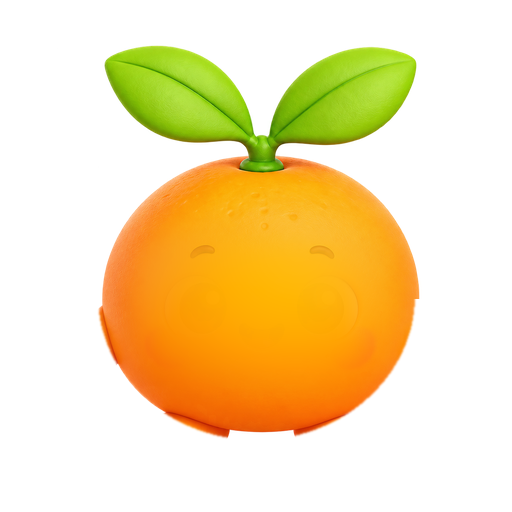
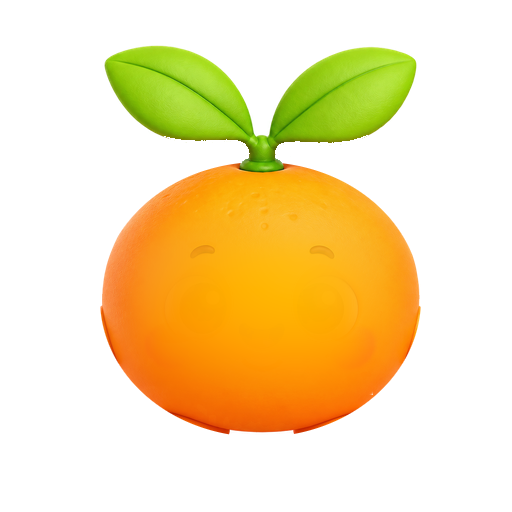
Repair stage arm roots and verify shoulder rotation envelopes

diff --git a/src/renderer/rig/rig-preview.tsx b/src/renderer/rig/rig-preview.tsx
@@ -3,16 +3,20 @@ import type { GrowthStage, PetDirection } from '../../shared/types';
 import { STAGES } from './geometry';
 import { gateFrame, visualSeed } from './frame';
 import { RigRenderer } from './rig-renderer';
+import { characterFrame } from './character';
+import { REST_POSE } from './geometry';
 
 export function RigPreview() {
-  const [time, setTime] = useState(650);
-  const [stage, setStage] = useState<GrowthStage>('lively');
-  const [direction, setDirection] = useState<PetDirection>('right');
+  const query = new URLSearchParams(location.search);
+  const initialStage = query.get('stage');
+  const [time, setTime] = useState(Number(query.get('time') ?? 650));
+  const [stage, setStage] = useState<GrowthStage>(STAGES.includes(initialStage as GrowthStage) ? initialStage as GrowthStage : 'lively');
+  const [direction, setDirection] = useState<PetDirection>(query.get('direction') === 'left' ? 'left' : 'right');
   return <main style={{ background: '#f4f0e9', height: '100vh', overflow: 'auto', padding: 24 }}>
     <h1>角色绘制验证 · Phase 1</h1><p>固定时间直接求帧；所有色块共用正式绘制组件，不连接存档。</p>
     <label>成长阶段 <select value={stage} onChange={(event) => setStage(event.target.value as GrowthStage)}>{STAGES.map((value) => <option key={value}>{value}</option>)}</select></label>
     <label> 朝向 <select value={direction} onChange={(event) => setDirection(event.target.value as PetDirection)}><option>right</option><option>left</option></select></label>
     <p><label>动作时间 {time} ms <input type="range" min="0" max="1800" value={time} onChange={(event) => setTime(Number(event.target.value))} /></label></p>
-    <div data-preview-viewport style={{ position: 'relative', width: 220, height: 220, background: '#fff', outline: '1px solid #bda98b' }}><RigRenderer stage={stage} drawables={gateFrame(time, direction, visualSeed('gate:1'))} /></div>
+    <div data-preview-viewport style={{ position: 'relative', width: 220, height: 220, background: '#fff', outline: '1px solid #bda98b' }}><RigRenderer stage={stage} drawables={query.get('fixture') === 'character' ? characterFrame(stage, direction, 'neutral', { body: REST_POSE, leftArm: Number(query.get('angle') ?? 0), rightArm: -Number(query.get('angle') ?? 0), leftLeg: 0, rightLeg: 0 }, '/assets/pet') : gateFrame(time, direction, visualSeed('gate:1'))} /></div>
   </main>;
 }

diff --git a/src/renderer/rig/character.ts b/src/renderer/rig/character.ts
@@ -1,0 +1,28 @@
+import type { GrowthStage, PetDirection, PetExpression } from '../../shared/types';
+import stageData from './stage-data.json';
+import { around, bodyMatrix, chain, rotate, transform, type Matrix, type Point, type Pose } from './geometry';
+import { renderAssignments, type Drawable } from './frame';
+
+export const SHOULDERS = stageData;
+export function armMatrix(stage: GrowthStage, side: 'left' | 'right', angle: number): Matrix {
+  const spec = SHOULDERS[stage][side];
+  if (angle < spec.minAngle || angle > spec.maxAngle) throw new Error(`Arm angle outside verified envelope: ${stage}/${side}/${angle}`);
+  return around(spec.shoulder, rotate(angle));
+}
+export function handPoint(stage: GrowthStage, side: 'left' | 'right', angle: number): Point {
+  return transform(armMatrix(stage, side, angle), SHOULDERS[stage][side].hand);
+}
+export interface CharacterPose { body: Pose; leftArm: number; rightArm: number; leftLeg: number; rightLeg: number }
+export function characterFrame(stage: GrowthStage, direction: PetDirection, expression: PetExpression, pose: CharacterPose, assetRoot: string, fallback = false): Drawable[] {
+  const body = bodyMatrix(pose.body, direction);
+  const layer = (id: string, slot: Drawable['slot'], matrix: Matrix, file: string): Drawable => ({ id, slot, matrix, src: `${assetRoot}/${stage}/${file}.png`, width: 512, height: 512 });
+  if (fallback) return [{ ...layer('fallback', 'body', body, ''), src: `${assetRoot}/${stage}.png` }];
+  return renderAssignments([
+    layer('leg-left', 'backArm', chain(body, around({ x: 220, y: 450 }, rotate(pose.leftLeg))), 'leg-left'),
+    layer('leg-right', 'backArm', chain(body, around({ x: 292, y: 450 }, rotate(pose.rightLeg))), 'leg-right'),
+    layer('arm-left', 'backArm', chain(body, armMatrix(stage, 'left', pose.leftArm)), 'arm-left'),
+    layer('arm-right', 'backArm', chain(body, armMatrix(stage, 'right', pose.rightArm)), 'arm-right'),
+    layer('body', 'body', body, 'body'),
+    layer('expression', 'faceExpression', body, `expressions/${expression}`),
+  ]);
+}

diff --git a/src/renderer/rig/character.test.ts b/src/renderer/rig/character.test.ts
@@ -1,0 +1,26 @@
+import { describe, expect, it } from 'vitest';
+import { armMatrix, characterFrame, SHOULDERS } from './character';
+import { REST_POSE, STAGES, transform } from './geometry';
+
+describe('verified shoulder geometry', () => {
+  it('keeps both shoulder pivots fixed over the entire verified envelope', () => {
+    for (const stage of STAGES) for (const side of ['left', 'right'] as const) {
+      const spec = SHOULDERS[stage][side];
+      for (let angle = spec.minAngle; angle <= spec.maxAngle; angle++) {
+        const actual = transform(armMatrix(stage, side, angle), spec.shoulder);
+        expect(actual.x).toBeCloseTo(spec.shoulder.x, 9);
+        expect(actual.y).toBeCloseTo(spec.shoulder.y, 9);
+      }
+      expect(() => armMatrix(stage, side, spec.maxAngle + 1)).toThrow('envelope');
+    }
+  });
+  it('atomically replaces all rig layers with a whole sprite on failure', () => {
+    const pose = { body: REST_POSE, leftArm: 0, rightArm: 0, leftLeg: 0, rightLeg: 0 };
+    for (const stage of STAGES) {
+      expect(characterFrame(stage, 'left', 'happy', pose, '/assets/pet')).toHaveLength(6);
+      const fallback = characterFrame(stage, 'left', 'happy', pose, '/assets/pet', true);
+      expect(fallback.map(({ id }) => id)).toEqual(['fallback']);
+      expect(fallback[0].src).toBe(`/assets/pet/${stage}.png`);
+    }
+  });
+});

diff --git a/scripts/prepare_rig_attachments.py b/scripts/prepare_rig_attachments.py
@@ -1,0 +1,115 @@
+"""Deterministic local PNG repair, explicitly authorized by the user.
+
+Uses original committed rig pixels; outputs 512 RGBA and repeatable evidence.
+Run with --arms to repair only arms. No other assets are touched in Phase 2.
+"""
+import argparse
+import json
+import subprocess
+from io import BytesIO
+from pathlib import Path
+
+import numpy as np
+from PIL import Image, ImageDraw, ImageFilter
+
+ROOT = Path(__file__).resolve().parents[1]
+OUT = ROOT / 'tmp/rig-evidence/phase2'
+SPECS = {
+    'sprout': {'left': ((136, 333), (96, 353), 20), 'right': ((376, 333), (425, 353), 21)},
+    'lively': {'left': ((151, 333), (112, 362), 19), 'right': ((361, 333), (402, 361), 19)},
+    'mature': {'left': ((133, 333), (84, 381), 21), 'right': ((379, 333), (427, 381), 21)},
+    'radiant': {'left': ((141, 348), (104, 403), 22), 'right': ((371, 338), (417, 403), 22)},
+}
+TORSOS = {'sprout': (260, 299, 161, 138), 'lively': (257, 309, 130, 132), 'mature': (256, 337, 163, 121), 'radiant': (257, 361, 144, 115)}
+FEET = {'sprout': ((188, 436), (333, 436), 46, 28), 'lively': ((196, 445), (321, 445), 39, 24), 'mature': ((178, 451), (330, 451), 50, 24), 'radiant': ((190, 473), (317, 473), 49, 27)}
+
+def repair_connections(stage):
+    master = np.asarray(original(f'assets/pet/{stage}.png')).copy()
+    body = np.asarray(original(f'assets/pet/{stage}/body.png')).copy()
+    yy, xx = np.mgrid[:512,:512]
+    cx, cy, rx, ry = TORSOS[stage]
+    ellipse = np.sqrt(((xx-cx)/rx)**2 + ((yy-cy)/ry)**2)
+    alpha = np.minimum(master[...,3], np.clip((1-ellipse)*min(rx,ry)*255,0,255)).astype(np.uint8)
+    # Preserve the original leaf canopy, independent of the torso ellipse.
+    canopy = (master[...,1].astype(float) > master[...,0]*1.02) & (yy < cy-50)
+    alpha = np.maximum(alpha, np.where(canopy, body[...,3], 0)).astype(np.uint8)
+    missing = (body[...,3] < 220) & (alpha > 0)
+    body[missing,:3] = master[missing,:3]
+    body[...,3] = alpha
+    body[alpha == 0] = 0
+    Image.fromarray(body).save(ROOT/f'assets/pet/{stage}/body.png')
+    left, right, rx, ry = FEET[stage]
+    for side, (cx,cy) in [('left',left),('right',right)]:
+        pixels = master.copy()
+        ellipse = np.sqrt(((xx-cx)/rx)**2 + ((yy-cy)/ry)**2)
+        pixels[...,3] = np.minimum(master[...,3],np.clip((1-ellipse)*min(rx,ry)*255,0,255)).astype(np.uint8)
+        pixels[pixels[...,3] == 0] = 0
+        Image.fromarray(pixels).save(ROOT/f'assets/pet/{stage}/leg-{side}.png')
+
+def original(relative):
+    return Image.open(BytesIO(subprocess.check_output(['git', 'show', f'26766f0:{relative}'], cwd=ROOT))).convert('RGBA')
+
+def repair_arm(stage, side, shoulder, hand, radius):
+    source = original(f'assets/pet/{stage}/arm-{side}.png')
+    master = original(f'assets/pet/{stage}.png')
+    yy, xx = np.mgrid[:512, :512]
+    a, b = np.asarray(shoulder), np.asarray(hand)
+    t = np.clip(((xx-a[0])*(b[0]-a[0]) + (yy-a[1])*(b[1]-a[1])) / np.sum((b-a)**2), 0, 1)
+    distance = np.hypot(xx-(a[0]+t*(b[0]-a[0])), yy-(a[1]+t*(b[1]-a[1])))
+    # A filled root and connecting capsule replace the crescent left by extraction.
+    alpha = np.clip((radius + .5 - distance)*255, 0, 255).astype(np.uint8)
+    pixels = np.asarray(master).copy()
+    source_pixels = np.asarray(source)
+    original_visible = (source_pixels[..., 3] > 16) & (alpha > 0)
+    # Sample matching peel from inside the body for formerly transparent root pixels.
+    fill = np.asarray(master)[int(shoulder[1]), int(shoulder[0]), :3].astype(float)
+    light = np.clip(1.02 - (xx-hand[0])*.002 - (yy-hand[1])*.001, .82, 1.1)
+    pixels[..., :3] = np.clip(fill[None,None,:]*light[...,None], 0, 255)
+    blend = np.clip((t-.35)/.5,0,1)*original_visible
+    pixels[..., :3] = pixels[..., :3]*(1-blend[...,None])+source_pixels[..., :3]*blend[...,None]
+    pixels[..., 3] = alpha
+    pixels[alpha == 0] = 0
+    result = Image.fromarray(pixels)
+    result.save(ROOT / f'assets/pet/{stage}/arm-{side}.png')
+    return result
+
+def validate(stage, arms):
+    body = Image.open(ROOT/f'assets/pet/{stage}/body.png').convert('RGBA')
+    report = []
+    for side, arm in arms.items():
+        shoulder, hand, radius = SPECS[stage][side]
+        for angle in range(-90, 91):
+            moved = arm.rotate(-angle, Image.Resampling.BICUBIC, center=shoulder)
+            a = np.asarray(moved.getchannel('A'))
+            b = np.asarray(body.getchannel('A'))
+            overlap = int(((a > 220) & (b > 220)).sum())
+            if a[shoulder[1], shoulder[0]] < 220 or overlap < 400:
+                raise ValueError(f'{stage}/{side}/{angle}: disconnected root ({overlap})')
+        report.append({'side': side, 'angles': 181, 'shoulder': shoulder, 'hand': hand, 'rootRadius': radius})
+    sheet = Image.new('RGBA', (512*5, 512), '#f5f1e9')
+    for index, angle in enumerate([-82, -40, 0, 40, 82]):
+        frame = Image.new('RGBA', (512,512))
+        for side, arm in arms.items():
+            frame.alpha_composite(arm.rotate(-angle if side == 'left' else angle, Image.Resampling.BICUBIC, center=SPECS[stage][side][0]))
+        frame.alpha_composite(body)
+        frame.alpha_composite(original(f'assets/pet/{stage}/expressions/neutral.png'))
+        for side in ['left','right']: frame.alpha_composite(Image.open(ROOT/f'assets/pet/{stage}/leg-{side}.png').convert('RGBA'))
+        sheet.alpha_composite(frame,(index*512,0))
+    sheet.save(OUT/f'{stage}-angle-sweep.png')
+    return report
+
+def main():
+    parser = argparse.ArgumentParser()
+    parser.add_argument('--arms', action='store_true', required=True)
+    parser.parse_args()
+    OUT.mkdir(parents=True, exist_ok=True)
+    report = {}
+    for stage, spec in SPECS.items():
+        repair_connections(stage)
+        arms = {side: repair_arm(stage, side, *values) for side, values in spec.items()}
+        report[stage] = validate(stage, arms)
+    (OUT/'geometry.json').write_text(json.dumps(report, indent=2), encoding='utf-8')
+    (ROOT/'src/renderer/rig/stage-data.json').write_text(json.dumps({stage: {side: {'shoulder': {'x': values[0][0], 'y': values[0][1]}, 'hand': {'x': values[1][0], 'y': values[1][1]}, 'rootRadius': values[2], 'minAngle': -90, 'maxAngle': 90} for side, values in spec.items()} for stage, spec in SPECS.items()}, indent=2)+'\n', encoding='utf-8')
+    print('PASS: 8 arms, 1448 angle samples; 512 RGBA; opaque connected roots.')
+
+if __name__ == '__main__': main()

diff --git a/docs/reference/PET_RIG_AND_ATTACHMENTS.md b/docs/reference/PET_RIG_AND_ATTACHMENTS.md
@@ -22,3 +22,7 @@ AssetSpace 是素材坐标，SceneSpace 使用相同的 512 逻辑单位，Windo
 Phase 1 测试验证坐标往返、单次阶段缩放、镜像还原、刚性附件无剪切、片段唯一性、播放/seek/种子重放一致性。Electron 截图验证由 `scripts/verify_rig_preview.cjs` 执行，使用隔离用户目录及隐藏窗口，不运行正式主进程。
 
 Phase 2–6 尚未实施；旧宠物仍使用原有渲染。不得将合成夹具通过描述为正式手臂、装扮、接触或 DPI 已修复。通过全部基础门槛后才允许迁移。
+
+## Phase 2 进展（2026-09-06）
+
+用户明确授权 Python/Pillow 确定性编辑素材。prepare_rig_attachments.py 从基础提交读取原图，清理手臂残片、补肩根，并修正身体/腿部连接处残片；输出 stage-data.json 与八只手臂的 1448 个角度重叠验证。characterFrame 及其测试提供固定肩点和完整 fallback。隔离 Electron 四阶段/左右/四摆角共 32 帧通过，全量 104 项测试、类型检查和构建通过。正式动作时间轴及完整附件仍待后续迁移验证。

diff --git a/docs/reference/OUTFITS_AND_ASSETS.md b/docs/reference/OUTFITS_AND_ASSETS.md
@@ -87,3 +87,7 @@ assets/pet/<stage>/expressions/<expression>.png # 14 种图片表情
 - `src/renderer/ui-regressions.test.ts`：验证十二张新增用品/服务道具与复用键盘均为本地 RGBA PNG，并锁定十三种动作选择器。
 - `src/shared/game.test.ts`、`src/main/store.test.ts`：验证永久装扮购买规则和 schema 1 到 schema 2 的所有权/装备保留。
 - `scripts/prepare_v1_2_2_character_assets.py`：执行时验证全部 80 张阶段运行素材的透明画布契约。
+
+## 未发布手臂修复
+
+四阶段五层素材已通过 prepare_rig_attachments.py 确定性修整；肩部参数及预览验证见 [角色变换与附件实现](PET_RIG_AND_ATTACHMENTS.md)。原整图及表情仍保留，装扮迁移尚未完成。
